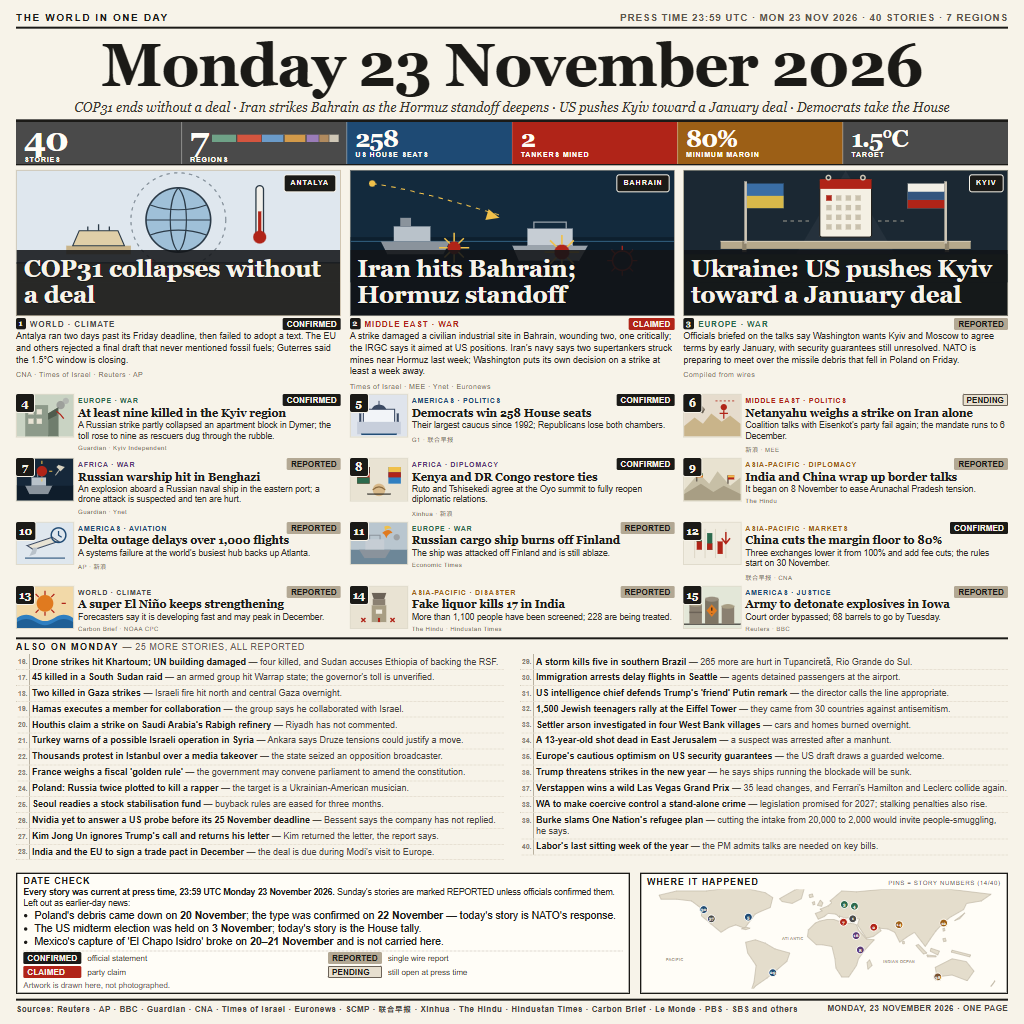
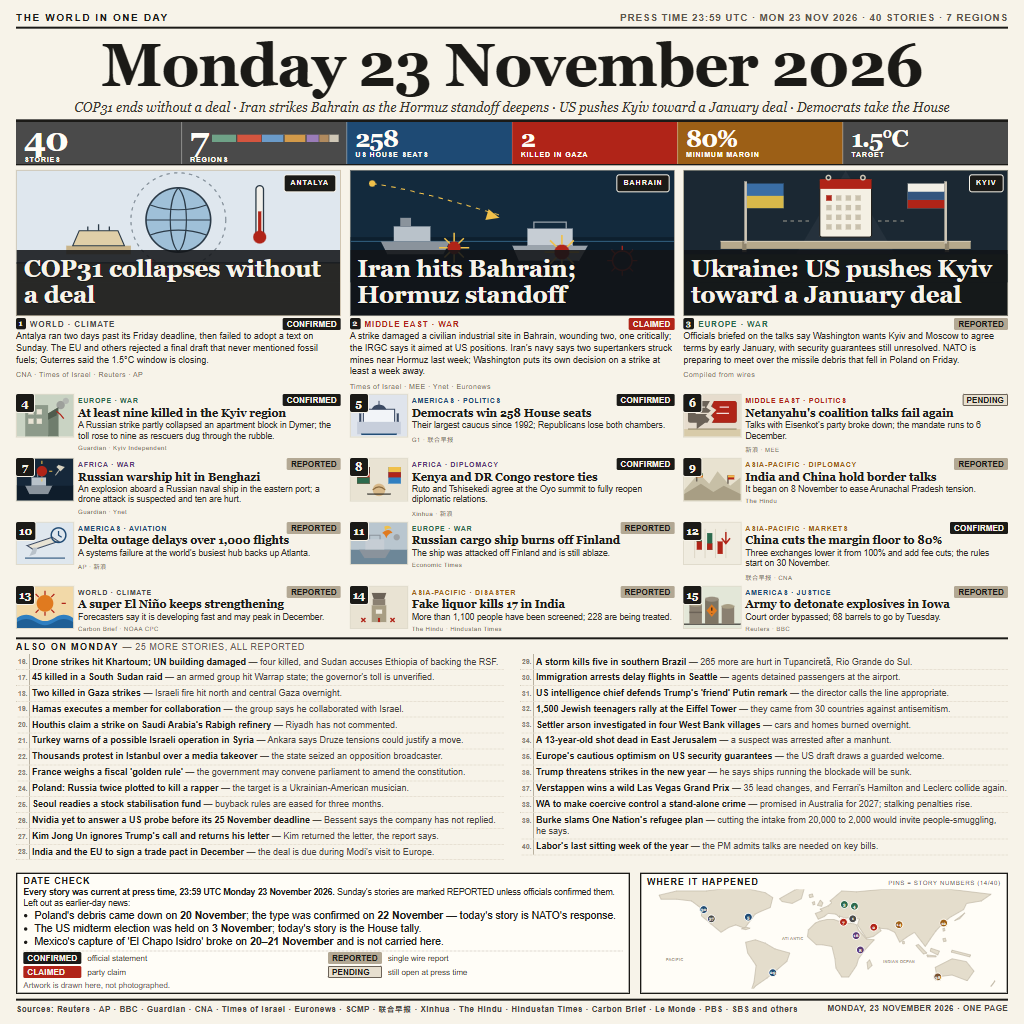
news-image-20261123: v9 - Oceania now named in brief 38, figure band swaps the last-week tanker count for today's Gaza toll, card 6 headline and artwork matched to its coalition story, card 9 drops the unsupported 'wrap up'

diff --git a/design.html b/design.html
@@ -217,13 +217,14 @@
     <!-- 40 STORIES and 7 REGIONS: the page's own counts, as printed in the topline. The bar in
          the REGIONS cell is the same 40 split 8+8+7+7+4+3+3 by region.
          258 US HOUSE SEATS: story 5 ("Democrats win 258 House seats").
-         2 TANKERS MINED: story 2 ("two supertankers struck mines near Hormuz").
+         2 KILLED IN GAZA: story 18 ("Two killed in Gaza strikes — Israeli fire hit north and
+         central Gaza overnight"); the tanker count it replaces was a "last week" figure.
          80% MINIMUM MARGIN: story 12 ("Three exchanges lower it from 100%").
          1.5°C TARGET: story 1 (Guterres: "the 1.5°C window is closing"). -->
     <div class="fig wo"><b class="hi">40</b><span>STORIES</span></div>
     <div class="fig wo"><b class="hi">7</b><span>REGIONS</span><div class="dist" aria-hidden="true"><i class="d1"></i><i class="d2"></i><i class="d3"></i><i class="d4"></i><i class="d5"></i><i class="d6"></i><i class="d7"></i></div></div>
     <div class="fig am"><b>258</b><span>US HOUSE SEATS</span></div>
-    <div class="fig me"><b>2</b><span>TANKERS MINED</span></div>
+    <div class="fig me"><b>2</b><span>KILLED IN GAZA</span></div>
     <div class="fig as"><b>80%</b><span>MINIMUM MARGIN</span></div>
     <div class="fig wo"><b>1.5°C</b><span>TARGET</span></div>
   </div>
@@ -251,7 +252,7 @@
         <h2 class="over">COP31 collapses without a deal</h2>
       </div>
       <div class="kicker"><span><b class="num">1</b>WORLD · CLIMATE</span><span class="chip">CONFIRMED</span></div>
-      <p>Antalya ran two days past its Friday deadline, then failed to adopt a text. The EU and others rejected a final draft that never mentioned fossil fuels; Guterres said the 1.5°C window is closing.</p>
+      <p>Antalya ran two days past its Friday deadline, then failed to adopt a text on Sunday. The EU and others rejected a final draft that never mentioned fossil fuels; Guterres said the 1.5°C window is closing.</p>
       <div class="src">CNA · Times of Israel · Reuters · AP</div>
     </article>
 
@@ -368,17 +369,18 @@
     <article class="card me">
       <div class="art"><svg viewBox="0 0 54 40">
         <rect width="54" height="40" fill="#e6dccd"/>
-        <path d="M0 30l10-8 8 6 8-10 10 8 8-6 10 8v12H0z" fill="#c9b48a"/>
-        <path d="M6 8l14 6-2 4-14-6z" fill="#6b6257"/>
-        <path d="M6 8l6-3 8 9-4 2z" fill="#8a8071"/>
-        <circle cx="38" cy="12" r="3" fill="#b02418"/>
-        <path d="M38 15v8M34 18h8" stroke="#b02418" stroke-width="1.2"/>
-        <path d="M30 6h20" stroke="#b02418" stroke-width=".8" stroke-dasharray="2 2"/>
+        <path d="M0 33h54v7H0z" fill="#d8cba9"/>
+        <path d="M4 33h46" stroke="#8a7d5e" stroke-width=".9"/>
+        <path d="M6 6h42a2.4 2.4 0 0 1 2.4 2.4v16.2A2.4 2.4 0 0 1 48 27H20l-8 6v-6H6a2.4 2.4 0 0 1-2.4-2.4V8.4A2.4 2.4 0 0 1 6 6z" fill="#6b6257"/>
+        <path d="M27 6h21a2.4 2.4 0 0 1 2.4 2.4v16.2A2.4 2.4 0 0 1 48 27H27z" fill="#b02418"/>
+        <path d="M27 5.4 L23.4 11.8 L28.2 15 L22.9 20.2 L26.6 23.4 L23.4 28.6" stroke="#e6dccd" stroke-width="3.4" fill="none" stroke-linejoin="miter"/>
+        <path d="M11 12h9M11 18h13" stroke="#e6dccd" stroke-width="1.3"/>
+        <path d="M34 12h9M31 18h12" stroke="#f3dedb" stroke-width="1.3"/>
       </svg></div>
       <div>
         <div class="k"><span>MIDDLE EAST · POLITICS</span><span class="chip pending">PENDING</span></div>
-        <h3><span class="num">6</span> Netanyahu weighs a strike on Iran alone</h3>
-        <p>Coalition talks with Eisenkot's party fail again; the mandate runs to 6 December.</p>
+        <h3><span class="num">6</span> Netanyahu's coalition talks fail again</h3>
+        <p>Talks with Eisenkot's party broke down; the mandate runs to 6 December.</p>
         <div class="src">新浪 · MEE</div>
       </div>
     </article>
@@ -431,7 +433,7 @@
       </svg></div>
       <div>
         <div class="k"><span>ASIA-PACIFIC · DIPLOMACY</span><span class="chip reported">REPORTED</span></div>
-        <h3><span class="num">9</span> India and China wrap up border talks</h3>
+        <h3><span class="num">9</span> India and China hold border talks</h3>
         <p>It began on 8 November to ease Arunachal Pradesh tension.</p>
         <div class="src">The Hindu</div>
       </div>
@@ -575,7 +577,7 @@
       <div class="brief"><div class="n">35</div><div class="t">Europe's cautious optimism on US security guarantees <span>— the US draft draws a guarded welcome.</span> <i>EUROPE · Novaya Gazeta Europe</i></div></div>
       <div class="brief"><div class="n">36</div><div class="t">Trump threatens strikes in the new year <span>— he says ships running the blockade will be sunk.</span> <i>AMERICAS · World Israel News</i></div></div>
       <div class="brief"><div class="n">37</div><div class="t">Verstappen wins a wild Las Vegas Grand Prix <span>— 35 lead changes, and Ferrari's Hamilton and Leclerc collide again.</span> <i>WORLD · SPORT · BBC Sport · Sky Sports</i></div></div>
-      <div class="brief"><div class="n">38</div><div class="t">WA to make coercive control a stand-alone crime <span>— legislation promised for 2027; stalking penalties also rise.</span> <i>OCEANIA · ABC · WA Government</i></div></div>
+      <div class="brief"><div class="n">38</div><div class="t">WA to make coercive control a stand-alone crime <span>— promised in Australia for 2027; stalking penalties rise.</span> <i>OCEANIA · ABC · WA Government</i></div></div>
       <div class="brief"><div class="n">39</div><div class="t">Burke slams One Nation's refugee plan <span>— cutting the intake from 20,000 to 2,000 would invite people-smuggling, he says.</span> <i>OCEANIA · SMH · AAP</i></div></div>
       <div class="brief"><div class="n">40</div><div class="t">Labor's last sitting week of the year <span>— the PM admits talks are needed on key bills.</span></div></div>
 

diff --git a/README.md b/README.md
@@ -26,8 +26,8 @@ Node.js 22.18 or later runs the TypeScript directly.
 
 COP31 climate talks collapse in Antalya · Iran strikes a Bahrain industrial site while the Hormuz
 standoff continues · the US sets Kyiv a January deadline for a peace deal · a Russian
-warship is damaged in Benghazi · Democrats take the US House · Netanyahu weighs a strike on Iran ·
-Kenya and DR Congo restore diplomatic ties · India and China hold ten days of border talks · Delta
+warship is damaged in Benghazi · Democrats take the US House · Netanyahu's coalition talks fail again ·
+Kenya and DR Congo restore diplomatic ties · India and China hold border talks · Delta
 delays over 1,000 flights in Atlanta · a Russian cargo ship burns off Finland · China cuts the margin
 requirement to 80% · a record El Niño strengthens · India's fake-liquor deaths.
 
